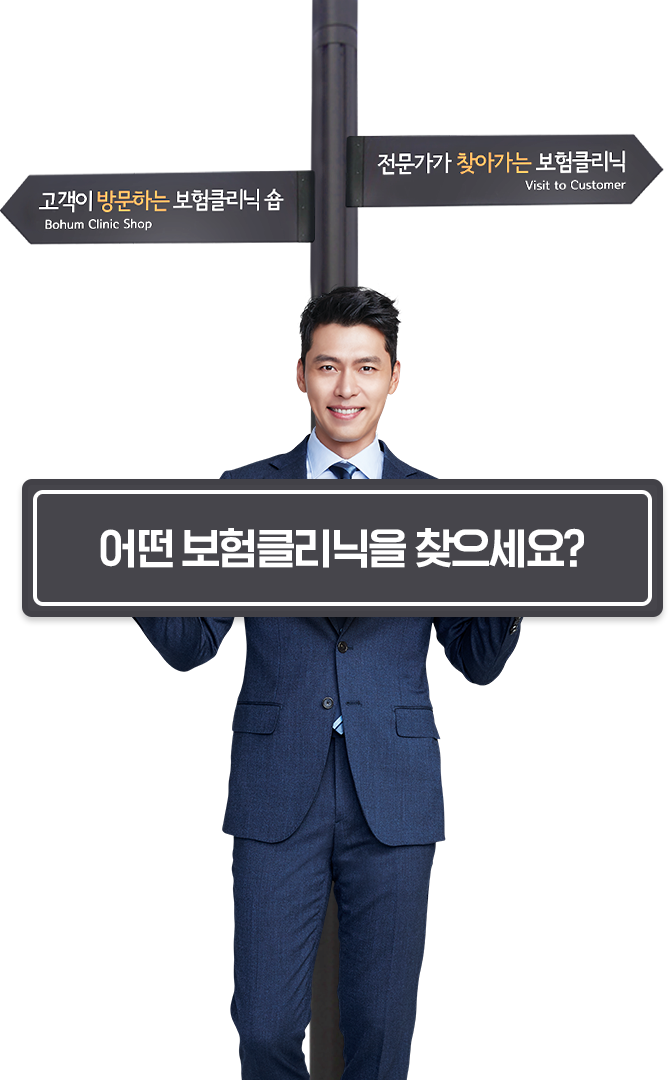
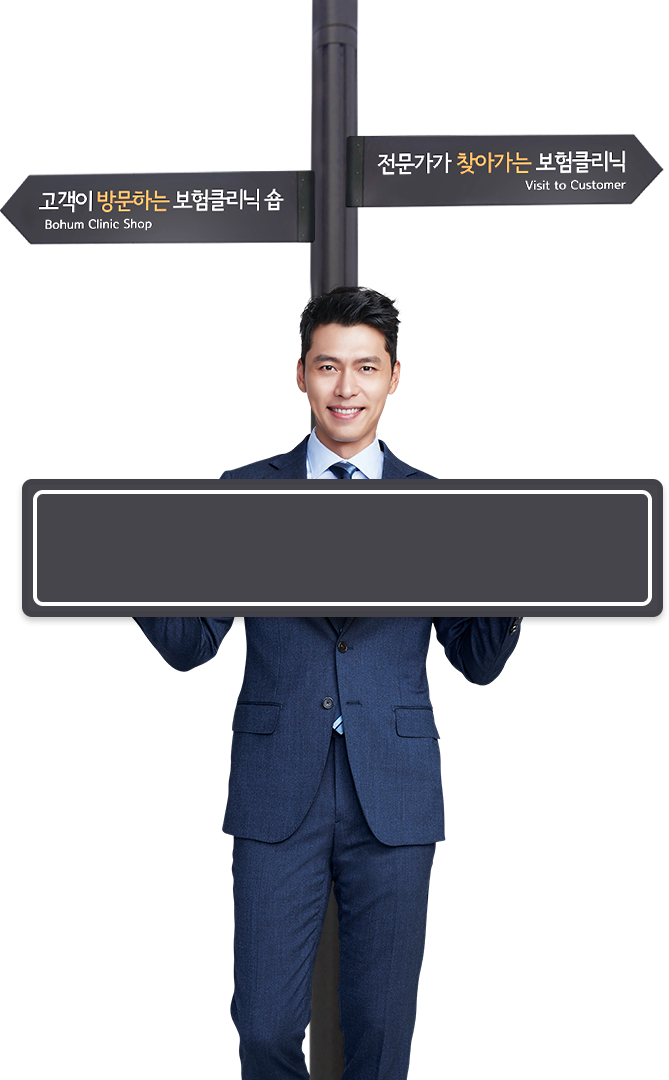
B안 수정

Changed region(s): [[0.1495, 0.4889, 0.867, 0.55]]

diff --git a/css/style_type2.css b/css/style_type2.css
@@ -19,9 +19,11 @@ html,body {overflow:hidden;min-width:1600px;min-height:800px}
 /****************************************************************************
 	content area
 ****************************************************************************/
-#sign {height:100%;opacity:0;transition:1s ease-in-out}
+#sign {position:absolute;left:50%;height:100%;opacity:0;transform:translateX(-50%);transition:1s ease-in-out}
+#sign .tit {position:absolute;top:478px;left:68px;font-family:'HGGGothicssi',sans-serif;font-size:45px;font-weight:800;color:#fff;opacity:0;transform:perspective(500px) rotateX(0)}
 #sign img {width:auto;height:100%}
 #wrap.active #sign {opacity:1}
+#wrap.active #sign .tit {opacity:1;transform:perspective(500px) rotateX(1440deg);transition:opacity 1.5s 0.5s, transform 2s 0.5s ease-out}
 
 #shop {position:absolute;left:13.2%;top:36%;height:50%;width:30%}
 #shop .txt_area {position:absolute;left:0;top:0}

diff --git a/index_type2.html b/index_type2.html
@@ -34,19 +34,20 @@
 <!-- #wrap -->
 <div id="wrap" class="mainWrap" data-target-device="pc">
     <div id="sign">
+        <p class="tit">어떤 보험클리닉을 찾으세요?</p>
         <img src="/img/type_b/visual_sign.png" alt="">
     </div>
 
-    <div id="shop">        
+    <div id="shop">
         <div class="txt_area">
-            <p>가까운 보험숍(Shop)으로</p> 
+            <p>가까운 보험숍(Shop)으로</p>
             <p>방문하는</p>
             <p>보험클리닉</p>
         </div>
         <a class="link_shop" href="https://www.bohumclinic.com/shop" target="_blank"><img src="/img/type_a/visual_shop_link.png" alt=""></a>
     </div>
 
-    <div id="fa">        
+    <div id="fa">
         <div class="txt_area">
             <p><img src="/img/type_b/visual_fa_txt1.png" alt=""></p>
             <p><img src="/img/type_b/visual_fa_txt2.png" alt=""></p>
